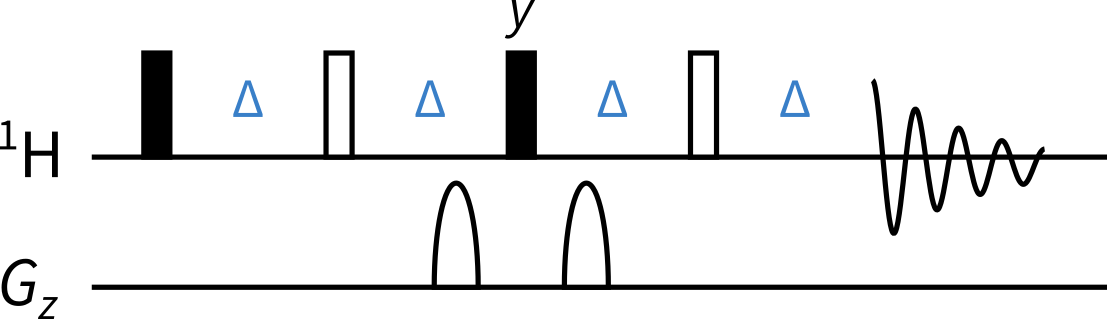
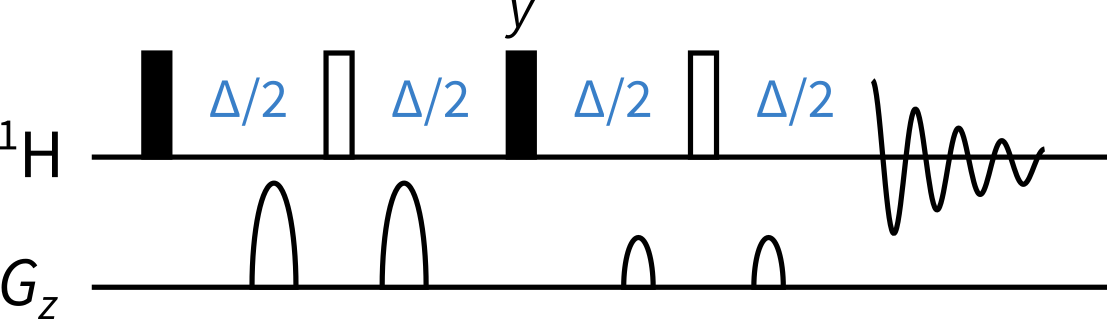
Pulprog 7

diff --git a/_posts/2021-07-20-pulprog7.md b/_posts/2021-07-20-pulprog7.md
@@ -1,0 +1,56 @@
+---
+layout: post
+title: "Pulse programming in TopSpin, part 7"
+tags: pulse-programming, topspin, jon
+---
+
+This is a short post, featuring a small exercise designed to consolidate everything we've learnt so far.
+
+{% include pulprog_toc.md %}
+
+# Perfect echo
+
+Your job here is to implement the following sequence, called a *perfect echo*:
+
+{% include imgc.html 
+src="/assets/images/pulprog/perfect_echo.png"
+alt="The perfect echo pulse sequence"
+width="450"
+%}
+
+In some senses, it's an "upgrade" on the ordinary spin echo, which refocuses chemical shifts but not J-couplings.
+The perfect echo refocuses *both* chemical shifts as well as J-couplings, and indeed has been directly dropped into some pulse sequences in place of a spin echo whenever it's important that J-modulation be removed or decreased.[^j-refocusing]
+
+{% include note.html heading="Exercise" content="
+(Yes, an exercise within an exercise...) Analyse the perfect echo sequence using product operators. Specifically, show that J-couplings are refocused for a two-spin IS system: start with $\hat{I}_z + \hat{S}_z$ and show that at the end we get $-\hat{I}_y - \hat{S}_y$.
+" %}
+
+<!-- f_ This comment to stop vim syntax highlighting from throwing a fit -->
+
+We have covered enough ground in the previous posts that you should be able to write this yourself.
+In fact, the spin echo sequence at the end of the [previous post]({% post_url 2021-07-19-pulprog6 %}) is a good starting point.
+Good luck! Here are a few pointers:
+
+ - All unspecified phases are along $+x$. You can ignore phase cycling for now. However, you will still need to define at least two different phases, for example `ph1` and `ph2`.
+ - It's OK to use the same gradient duration for each, but the amplitudes should be different. This is important because we don't want the second pair of gradients to accidentally refocus coherences that were dephased earlier by the first pair.
+ - We should allow the user to enter $\Delta$ (and not make them calculate $\Delta/2$ themselves) in the `ased` screen. Your pulse programme should automatically halve this as necessary. Note that you should also include compensation for the `p16 + d16`, as discussed in the previous post.
+
+**No solutions are provided!**
+You should check your pulse programme with somebody experienced, such as your supervisor, or somebody else in your group.
+If you're worried, run it past somebody *before* actually running the experiment.
+
+When you're done, run the experiment.
+You should find that the multiplets are now no longer distorted, or are at least significantly less distorted.
+This is the result I got (bottom is the original spin echo, top is perfect echo):
+
+{% include imgc.html 
+src="/assets/images/pulprog/spin_vs_perfect.png"
+alt="Spectra from spin echo and perfect echo experiments"
+width="450"
+%}
+
+--------
+
+### Footnotes
+
+[^j-refocusing]: (More advanced topic.) This idea of refocusing J-coupling seems to suggest that the perfect echo can be used as an element for *pure shift* NMR. However, this is not actually possible. The reason is because the perfect echo doesn't *just* refocus J-couplings; it *also* causes coherence transfer between both spins. That is to say, any magnetisation that was on spin $I$ in the first half of the perfect echo ends up on spin $S$ in the second half, and vice versa. In contrast, pure shift elements like the PSYCHE double chirp refocus J-couplings *without* causing coherence transfer. (The fact that the perfect echo causes coherence transfers is not necessarily a bad thing: it has been used to great effect in the CLIP-COSY and other related sequences.)

diff --git a/_posts/2021-06-27-pulprog0.md b/_posts/2021-06-27-pulprog0.md
@@ -51,5 +51,6 @@ For a *very* brief overview, or a refresher, the first chapter of Tim Claridge's
  - [Part 4]({% post_url 2021-07-05-pulprog4 %}): Dummy scans and parameter descriptions
  - [Part 5]({% post_url 2021-07-05-pulprog5 %}): Using mathematical expressions
  - [Part 6]({% post_url 2021-07-19-pulprog6 %}): Gradients
+ - [Part 7]({% post_url 2021-07-20-pulprog7 %}): A consolidation exercise
 
 
